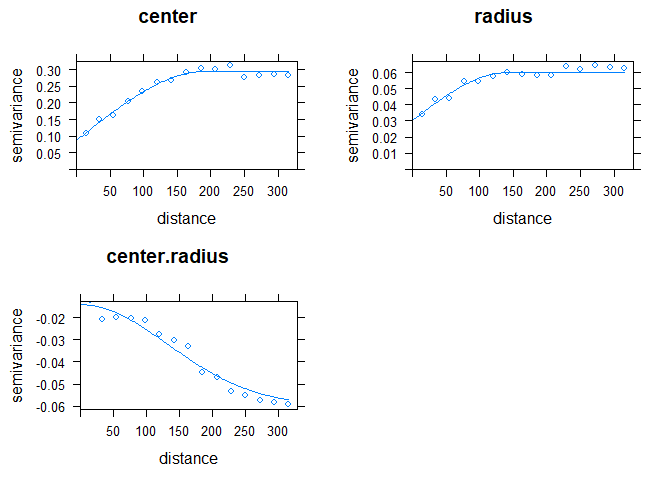
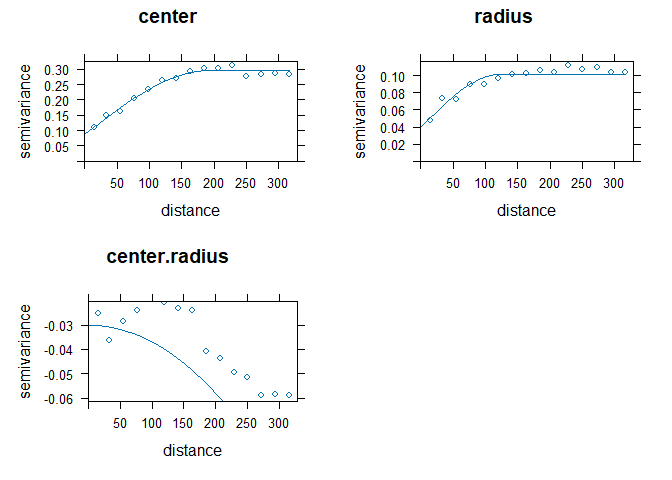
fix broken package links

diff --git a/README.md b/README.md
@@ -1,14 +1,15 @@
 
 <!-- README.md is generated from README.Rmd. Please edit that file -->
 
-[![Travis build
-status](https://travis-ci.org/beanb2/intkrige.svg?branch=master)](https://travis-ci.org/beanb2/intkrige)
+<!-- badges: start -->
+
+[![R-CMD-check](https://github.com/beanb2/intkrige/actions/workflows/R-CMD-check.yaml/badge.svg)](https://github.com/beanb2/intkrige/actions/workflows/R-CMD-check.yaml)
+<!-- badges: end --> d
 
 # intkrige
 
 This package implements the interval-valued kriging models described in
-Bean et. al. (2019a). Details regarding the algorithmic implementation
-can be found in Bean et. al. (2019b).
+Bean et. al. (2022).
 
 ## Installation
 
@@ -58,8 +59,8 @@ with dataset documentation obtained by
 
 Once installed, this package runs simple and ordinary interval-valued
 kriging models. The following example comes from the design ground snow
-load application described in Bean et. al. (Bean, Sun, and Maguire
-2019a). The snow load problem requires a proper consideration of the
+load application described in Bean et. al. (Bean, Sun, and Maguire
+2022). The snow load problem requires a proper consideration of the
 effect of elevation on ground snow loads prior to input into kriging.
 The current interval-valued kriging models allow for linear
 considerations of secondary variables in the model predictions. Such
@@ -91,9 +92,6 @@ are created using the *interval()* function as demonstrated below.
 library(intkrige)
 #> Loading required package: sp
 #> Loading required package: gstat
-#> Registered S3 method overwritten by 'xts':
-#>   method     from
-#>   as.zoo.xts zoo
 #> Loading required package: raster
 
 # First, define the location and elevation of interest. 
@@ -142,19 +140,20 @@ variograms using the information contained in the interval slot. The
 of *intvariogram*. Note that intvariogram defines an *intvariogram*
 class which is the only class that fit.intvariogram will accept. This
 new class designation is intended to ensure that *intvariogram* and
-*fit.intvariogram* are always used in tandem. These particular
-variograms first account for the effect of elevation on ground snow
-loads before calculating the empirical variograms.
+*fit.intvariogram* are always used in tandem. Note that the cross
+variogram for the center/radius interaction has a degenerate fit in this
+case.
 
 ``` r
 # Define the formulas we will use to define the intervals. 
-temp_formulas <- list(center ~ ELEVATION, 
-                      radius*(ELEVATION/median(ELEVATION)) ~ 1)
+temp_formulas <- center ~ ELEVATION
 
 # Define, fit and check the variogram fits. 
 varios <- intvariogram(utsnow.sp,
-                       formulas = temp_formulas)
+                       centerFormula = temp_formulas)
 varioFit <- fit.intvariogram(varios, models = gstat::vgm(c("Sph", "Sph", "Gau")))
+#> Warning in gstat::fit.variogram(x_sub, model = models[[i]], ...): No
+#> convergence after 200 iterations: try different initial values?
 intvCheck(varios, varioFit)
 ```
 
@@ -169,72 +168,70 @@ notice that many of the function arguments relate to the Newton-Raphson
 optimization technique that is used to calculate the kriging model
 weights. These arguments should not need to be changed from the defaults
 for most user purposes. The following demonstrates an ordinary kriging
-model after accounting for elevation.
+model after accounting for elevation in the prediction of the centers.
 
 ``` r
 preds <- intkrige::intkrige(locations = utsnow.sp,
                             newdata = templocs, 
                             models = varioFit,
-                            formulas = temp_formulas)
+                            centerFormula = temp_formulas)
+#> [generalized least squares trend estimation]
+#> [generalized least squares trend estimation]
 
 # The final results are predicted intervals after removing the effect of elevation.  
 preds
-#>         coordinates                 interval ELEVATION   center    radius
-#> 1 (-111.81, 41.745) [-0.03611231, 0.9702524]      1456 0.433943 0.5031823
+#>         coordinates               interval ELEVATION    center    radius
+#> 1 (-111.81, 41.745) [-0.1769736, 1.030301]      1456 0.6757244 0.6036374
 #>   kriging_variance warn
-#> 1        0.1517327    0
+#> 1        0.1651463    0
 ```
 
 The interval prediction (including the elevation effect) is included in
 the interval slot. The raw predictions are appended to the data frame
 under the following variable names:
 
-\-center: the value of the interval centers returned directly from the
+-center: the value of the interval centers returned directly from the
 kriging model,
 
-\-radius: raw radii predictions,
+-radius: raw radii predictions,
 
-\-variance: the kriging variance according the generalized L2 distance,
+-variance: the kriging variance according the generalized L2 distance,
 
-\-warn: a boolean that is 0 for a convergent optimization and 1 for a
+-warn: a boolean that is 0 for a convergent optimization and 1 for a
 non-convergent optimization. This quiet approach to warnings ensures a
 non-disruptive experience for the user when predicting a large number of
 locations.
 
 # References
 
-<div id="refs" class="references">
+<div id="refs" class="references csl-bib-body hanging-indent"
+entry-spacing="0">
 
-<div id="ref-Bean2019-int">
+<div id="ref-Bean2019-int" class="csl-entry">
 
-Bean, Brennan, Yan Sun, and Marc Maguire. 2019a. “Interval-Valued
-Kriging Models for Geostatistical Mapping with Uncertain Inputs.”
-
-</div>
-
-<div id="ref-Bean2019-int2">
-
-———. 2019b. “Supplement to ‘Interval-Valued Kriging Models for
-Geostatistical Mapping with Uncertain Inputs’.”
+Bean, Brennan, Yan Sun, and Marc Maguire. 2022. “Interval-Valued Kriging
+for Geostatistical Mapping with Imprecise Inputs.” *International
+Journal of Approximate Reasoning* 140: 31–51.
+<https://doi.org/10.1016/j.ijar.2021.10.003>.
 
 </div>
 
-<div id="ref-Bivand2008">
+<div id="ref-Bivand2008" class="csl-entry">
 
 Bivand, Roger S, Edzer J Pebesma, Virgilio Gomez-Rubio, and Edzer Jan
-Pebesma. 2013. *Applied Spatial Data Analysis with R*. 2nd ed. Vol.
+Pebesma. 2013. *Applied Spatial Data Analysis with r*. 2nd ed. Vol.
 747248717. Springer.
 
 </div>
 
-<div id="ref-Goovaerts1997">
+<div id="ref-Goovaerts1997" class="csl-entry">
 
 Goovaerts, Pierre. 1997. *Geostatistics for Natural Resources
 Evaluation*. Oxford University Press.
 
 </div>
 
-<div id="ref-Goovaerts2000">
+<div id="ref-Goovaerts2000" class="csl-entry">
 
 ———. 2000. “Geostatistical Approaches for Incorporating Elevation into
 the Spatial Interpolation of Rainfall.” *Journal of Hydrology* 228 (1):
@@ -242,26 +239,25 @@ the Spatial Interpolation of Rainfall.” *Journal of Hydrology* 228 (1):
 
 </div>
 
-<div id="ref-gstat2">
+<div id="ref-gstat2" class="csl-entry">
 
 Gräler, Benedikt, Edzer Pebesma, and Gerard Heuvelink. 2016.
-“Spatio-Temporal Interpolation Using Gstat.” *The R Journal* 8 (1):
-204–18.
+“Spatio-Temporal Interpolation Using Gstat.” *The R Journal* 8: 204–18.
 <https://journal.r-project.org/archive/2016-1/na-pebesma-heuvelink.pdf>.
 
 </div>
 
-<div id="ref-gstat1">
+<div id="ref-gstat1" class="csl-entry">
 
 Pebesma, Edzer J. 2004. “Multivariable Geostatistics in S: The Gstat
 Package.” *Computers & Geosciences* 30: 683–91.
 
 </div>
 
-<div id="ref-devtools2019">
+<div id="ref-devtools2019" class="csl-entry">
 
 Wickham, Hadley, Jim Hester, and Winston Chang. 2019. *Devtools: Tools
-to Make Developing R Packages Easier*.
+to Make Developing r Packages Easier*.
 <https://github.com/r-lib/devtools>.
 
 </div>

diff --git a/cran-comments.md b/cran-comments.md
@@ -1,11 +1,14 @@
 ## Test environments
-* windows 10, R 3.6.2
-* ubuntu 16.04.6 (on travis-ci), R 3.6.2
+* windows 11, R 4.5.1
+* github actions check standard (5 OS - all running R 4.5.1)
 
-## R CMD check results (2-7-2020)
+## R CMD check results (9-29-2025)
+Clean on all five OS. 
 
-* windows: 0 errors | 0 warnings | 0 notes
-* ubuntu:  0 errors | 0 warnings | 0 notes 
+(9-20-2025)
+Remove c++11 requirement. Update testthat file to check for relative
+dependency among the methods to avoid instability in the automatic variogram
+fitting process.
 
 (2-7-2020)
 This update is in response to a request I received from CRAN to remove 
